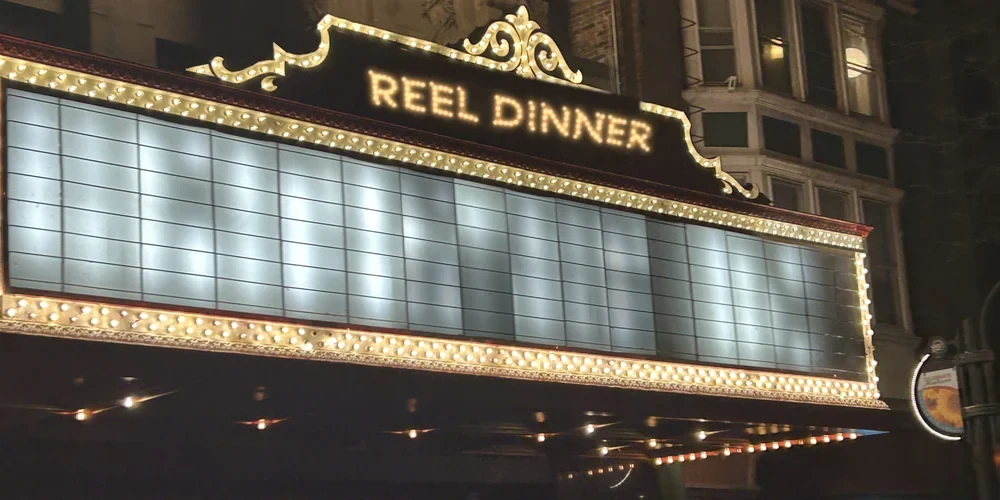
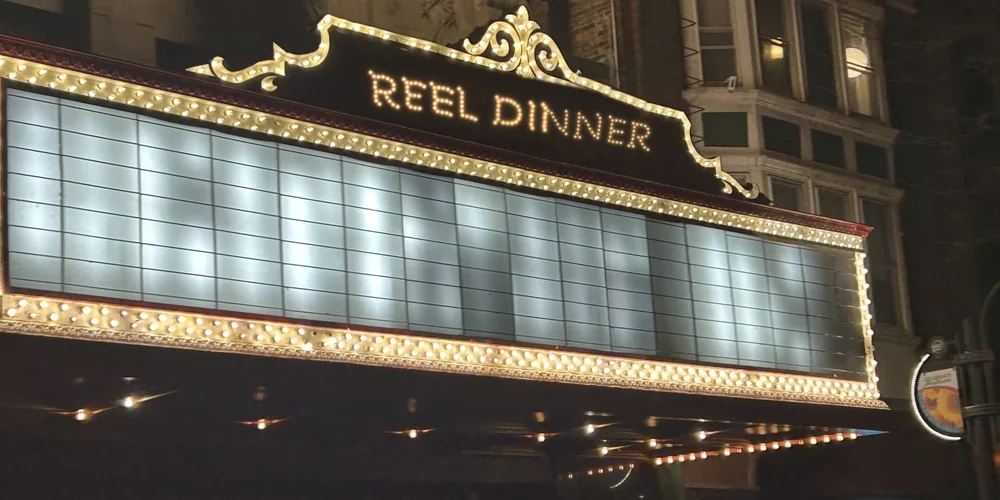
Hero sign: letters redrawn as separate bulbs like the crest's, bulb rail carried across the gap between the crest and the right scroll
Claude-Session: https://claude.ai/code/session_01W3UAnATXrtFUEECTuvP9jf

Changed region(s): [[0.341, 0.12, 0.651, 0.3]]

diff --git a/scripts/palace-sign-fix.py b/scripts/palace-sign-fix.py
@@ -1,0 +1,99 @@
+# Hero sign clean-up, 12 Nov 2026 (Josh's iPhone screenshot): the bulb border along the top of the REEL DINNER board was missing
+# between the crest and the right scroll, leaving the black board cut off in a hard straight line, and the letters read as soft,
+# pasted-on glow. This redraws the letters as separate bulbs like the crest's and carries the bulb rail across the gap.
+# Works on the current assets/hero/palace.webp. Run from the repo root: python3 scripts/palace-sign-fix.py [source.webp]
+# Rewrites assets/hero/palace.webp, palace-1400.webp and palace-1000.webp.
+import sys, numpy as np, cv2
+from PIL import Image, ImageDraw, ImageFont
+from skimage.morphology import skeletonize
+
+SRC = sys.argv[1] if len(sys.argv) > 1 else 'assets/hero/palace.webp'
+I = cv2.cvtColor(np.array(Image.open(SRC).convert('RGB')), cv2.COLOR_RGB2BGR).astype(np.float32)
+H, W = I.shape[:2]
+rng = np.random.default_rng(7)
+
+# 1. take the current letters and their glow out of the board
+board = np.float32([(632, 112), (1133, 196), (1133, 288), (632, 202)])
+bm = np.zeros((H, W), np.uint8); cv2.fillPoly(bm, [board.astype(np.int32)], 255)
+right = np.float32([(1133, 206), (1172, 212), (1172, 284), (1133, 284)])
+cv2.fillPoly(bm, [right.astype(np.int32)], 255)
+lum = cv2.cvtColor(I.astype(np.uint8), cv2.COLOR_BGR2GRAY)
+ring = cv2.dilate(bm, np.ones((15, 15), np.uint8)) & ~bm
+bgc = np.median(I[(ring > 0) & (lum < 40)], axis=0)
+glowy = ((lum.astype(np.float32) > bgc.mean() + 8) & (bm > 0)).astype(np.uint8) * 255
+glowy = cv2.dilate(glowy, np.ones((5, 5), np.uint8)) & bm
+inp = cv2.inpaint(I.astype(np.uint8), glowy, 9, cv2.INPAINT_TELEA).astype(np.float32)
+cm = cv2.GaussianBlur(glowy.astype(np.float32) / 255, (0, 0), 2)[..., None]
+# board texture: its colour plus fine grain and a faint left-to-right fall-off like the lit photo
+xx = np.linspace(1.08, 0.92, W)[None, :, None]
+patch = (inp * 0.25 + bgc * 0.75) * xx + rng.normal(0, 2.2, (H, W, 1))
+out = I * (1 - cm) + patch * cm
+
+# 2. new letters as separate bulbs along each stroke's centre line
+quad = np.float32([(657, 128), (1158, 221), (1151, 266), (660, 183)])
+font = ImageFont.truetype('/usr/share/texmf/fonts/opentype/public/tex-gyre/texgyreadventor-bold.otf', 220)
+txt = 'REEL DINNER'
+flat = Image.new('L', (int(font.getlength(txt)) + 40, 260), 0)
+ImageDraw.Draw(flat).text((20, 10), txt, font=font, fill=255)
+fa = np.array(flat) > 127
+ys, xs = np.nonzero(fa); fa = fa[ys.min():ys.max() + 1, xs.min():xs.max() + 1]
+ch, cw = fa.shape
+M = cv2.getPerspectiveTransform(np.float32([[0, 0], [cw, 0], [cw, ch], [0, ch]]), quad)
+wk = cv2.warpPerspective(fa.astype(np.uint8) * 255, M, (W, H)) > 127
+sk = skeletonize(wk); ys, xs = np.nonzero(sk)
+# walk each stroke from an end, so bulbs fall at even steps along it
+S = set(zip(xs.tolist(), ys.tolist()))
+nb = lambda q: [(q[0] + i, q[1] + j) for i in (-1, 0, 1) for j in (-1, 0, 1) if (i or j) and (q[0] + i, q[1] + j) in S]
+seen = set(); pts = []
+for q0 in sorted(S, key=lambda q: (len(nb(q)) != 1, q[0], q[1])):
+    if q0 in seen: continue
+    stack = [q0]
+    while stack:
+        q = stack.pop()
+        if q in seen: continue
+        seen.add(q); pts.append(q)
+        stack.extend(sorted((n for n in nb(q) if n not in seen), key=lambda n: abs(n[0] - q[0]) + abs(n[1] - q[1]), reverse=True))
+bulbs = []
+for x, y in pts:
+    sp = 8.0 - 1.6 * (x - 657) / 500  # bulbs a little closer together as the board recedes
+    if all((x - bx) ** 2 + (y - by) ** 2 > sp ** 2 for bx, by in bulbs): bulbs.append((x, y))
+core = np.zeros((H, W), np.float32); hotm = np.zeros((H, W), np.float32)
+for x, y in bulbs:
+    r = 3.0 - 0.8 * (x - 657) / 500; v = rng.uniform(.82, 1.0)
+    cv2.circle(core, (int(x), int(y)), max(1, int(round(r))), float(v), -1, cv2.LINE_AA)
+    cv2.circle(hotm, (int(x), int(y)), max(1, int(round(r * .55))), float(v), -1, cv2.LINE_AA)
+warm = np.float32([80, 170, 238]); hot = np.float32([200, 238, 255])
+halo = cv2.GaussianBlur(core, (0, 0), 2.6) * 2.1 + cv2.GaussianBlur(core, (0, 0), 7) * 1.0
+out = out + warm * np.clip(halo, 0, 1.3)[..., None] * 0.75
+bulb = np.clip(cv2.GaussianBlur(core, (0, 0), 0.7), 0, 1)[..., None]
+out = out * (1 - bulb) + (warm * 0.35 + hot * 0.65) * bulb
+hc = np.clip(cv2.GaussianBlur(hotm, (0, 0), 0.6), 0, 1)[..., None]
+out = out * (1 - hc) + np.float32([235, 250, 255]) * hc
+
+# 3. carry the bulb rail across the gap: two copies of a three-bulb run of the rail where it starts again at the right scroll
+P0, P1 = np.float32([1141, 186]), np.float32([1192, 201])     # rail centre line, three bulbs apart
+Q0, Qe = np.float32([1024, 139]), np.float32([1143, 187])     # crest's last bulb to where the rail starts again
+def nrm(a, b):
+    d = (b - a) / np.linalg.norm(b - a); return np.float32([-d[1], d[0]])
+src = out.copy(); hh = 9.0
+for k in range(2):
+    a = Q0 + (Qe - Q0) * k / 2; b = Q0 + (Qe - Q0) * (k + 1) / 2
+    A = cv2.getAffineTransform(np.float32([P0, P1, P0 + nrm(P0, P1) * hh]), np.float32([a, b, a + nrm(a, b) * hh]))
+    wp = cv2.warpAffine(src, A, (W, H), flags=cv2.INTER_LINEAR, borderMode=cv2.BORDER_REFLECT)
+    n = nrm(a, b); d = (b - a) / np.linalg.norm(b - a)
+    poly = np.float32([a - d * 2 + n * 11, b + d * 2 + n * 11, b + d * 2 - n * 11, a - d * 2 - n * 11])
+    m = np.zeros((H, W), np.float32); cv2.fillPoly(m, [poly.astype(np.int32)], 1.0)
+    m = cv2.GaussianBlur(m, (0, 0), 1.6)[..., None]
+    out = out * (1 - m) + wp * m
+
+# match the photo's softness and grain over everything touched
+touched = cv2.dilate(bm, np.ones((9, 9), np.uint8)).astype(np.float32) / 255
+cv2.fillPoly(touched, [np.int32([(1015, 120), (1150, 172), (1150, 205), (1015, 158)])], 1.0)
+tk = cv2.GaussianBlur(touched, (0, 0), 3)[..., None]
+soft = cv2.GaussianBlur(out, (0, 0), 0.6)
+out = out * (1 - tk) + soft * tk + rng.normal(0, 1.4, (H, W, 1)) * tk
+res = Image.fromarray(cv2.cvtColor(np.clip(out, 0, 255).astype(np.uint8), cv2.COLOR_BGR2RGB))
+res.save('assets/hero/palace.webp', quality=88, method=6)
+for w in (1400, 1000):
+    res.resize((w, round(H * w / W)), Image.LANCZOS).save(f'assets/hero/palace-{w}.webp', quality=86, method=6)
+print('bulbs', len(bulbs))
